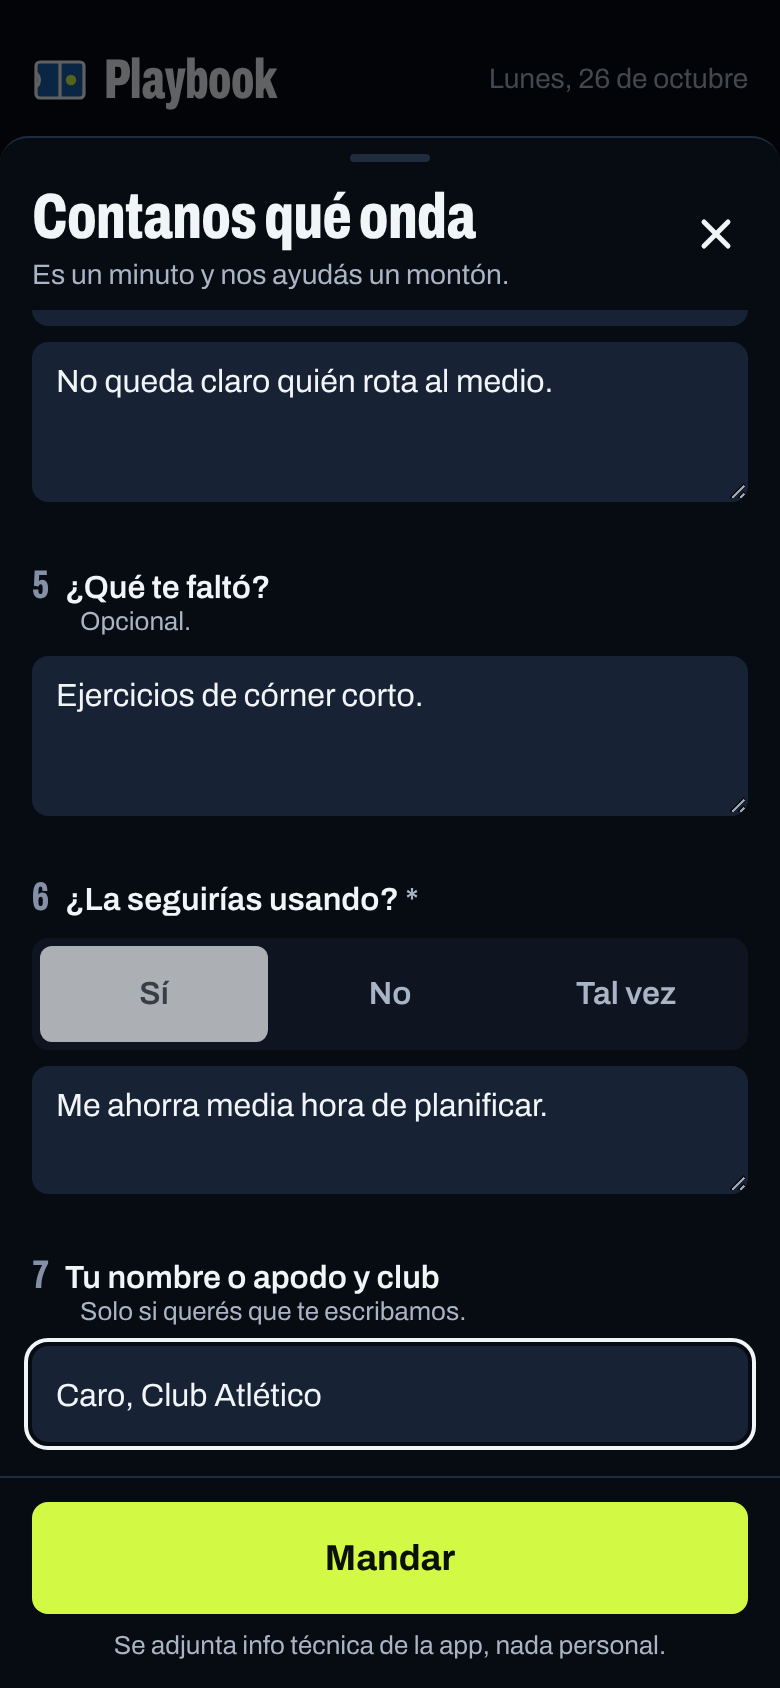
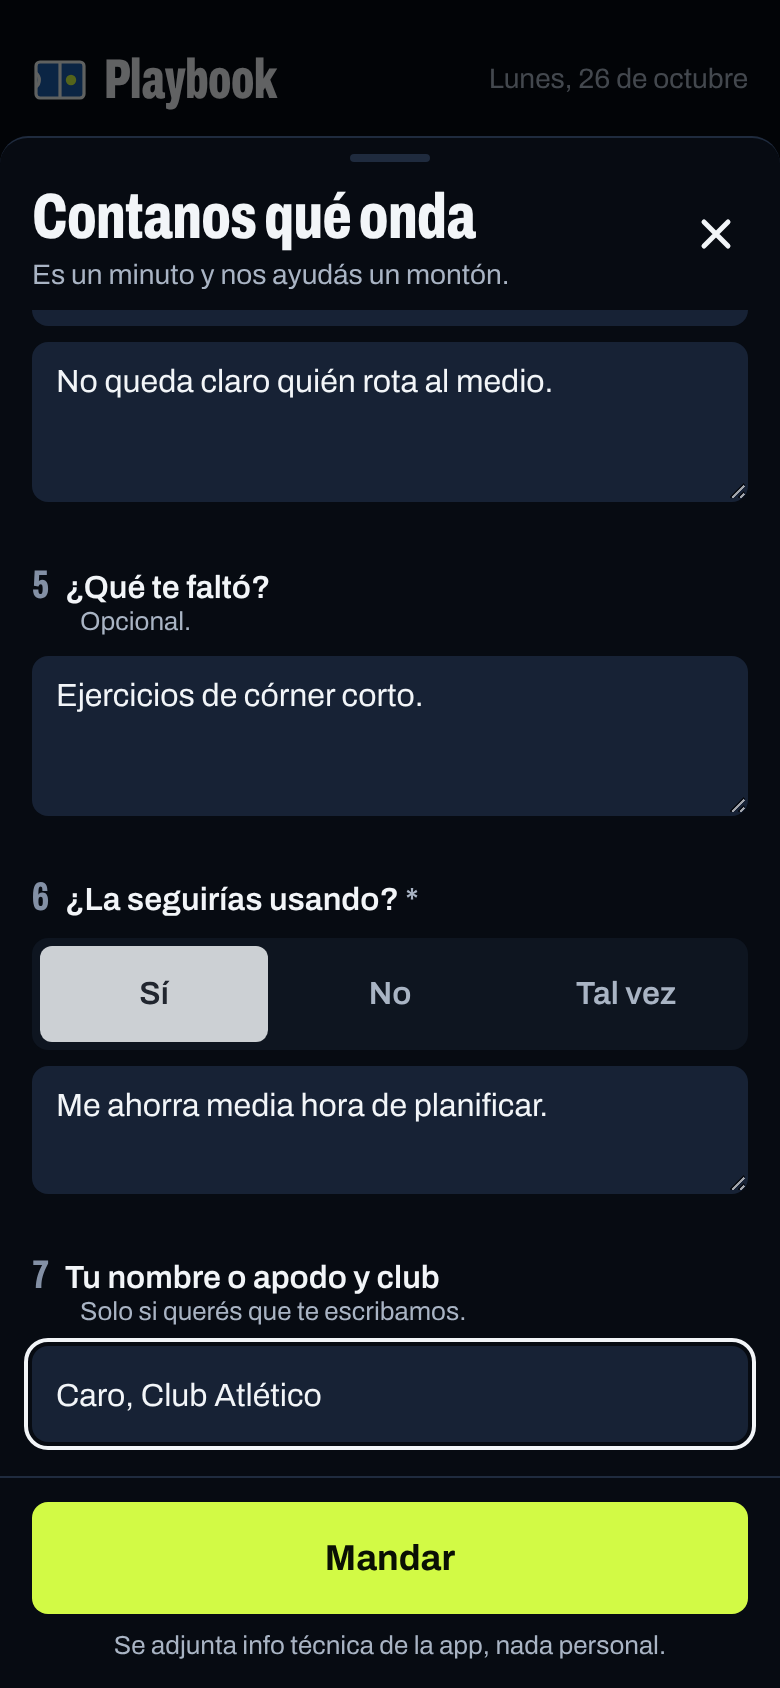
Feedback: formato del Google Form real de la beta
- Casillas: un parámetro por categoría; escala lineal: solo el número
- Campo info con origen, calificación del cierre e info técnica en un texto
- README con las 10 preguntas y los textos exactos de las opciones

Claude-Session: https://claude.ai/code/session_01Hd13ubxvGTXEAgtLTdJiZe

Changed region(s): [[0.0308, 0.5545, 0.3692, 0.6161]]

diff --git a/tests/feedback.test.ts b/tests/feedback.test.ts
@@ -24,6 +24,7 @@ const ENTRIES: Entries = {
   sesiones: "entry.115",
   cancha: "entry.116",
   propios: "entry.117",
+  info: "entry.118",
 };
 const TECNICO: Tecnico = { version: "71542f9", dispositivo: "Android · Chrome 141", pwa: true, sesiones: 7, cancha: 3, propios: 2 };
 const completa = (): Respuesta => ({
@@ -61,9 +62,11 @@ describe("feedback: armado del body", () => {
   it("cada campo va con su entry, recortado, y los vacíos no viajan", () => {
     const r = { ...completa(), falto: "", contacto: "" };
     const cuerpo = armarCuerpo(r, TECNICO, ENTRIES, "Rondo 3 contra 1");
-    expect(cuerpo.get("entry.101")).toBe("Juveniles, Mayores");
+    // Casillas: un parámetro por categoría marcada.
+    expect(cuerpo.getAll("entry.101")).toEqual(["Juveniles", "Mayores"]);
     expect(cuerpo.get("entry.102")).toBe("2–3");
-    expect(cuerpo.get("entry.103")).toBe("4 · Casi tal cual");
+    // Escala lineal: solo el número.
+    expect(cuerpo.get("entry.103")).toBe("4");
     expect(cuerpo.get("entry.104")).toBe("No se entiende quién rota");
     expect(cuerpo.get("entry.105")).toBe("Rondo 3 contra 1 (rondo-3-contra-1)");
     expect(cuerpo.get("entry.107")).toBe("Sí");
@@ -74,6 +77,42 @@ describe("feedback: armado del body", () => {
     expect(cuerpo.has("entry.106")).toBe(false);
     expect(cuerpo.has("entry.109")).toBe(false);
     expect(cuerpo.has("entry.110")).toBe(false);
+  });
+
+  it("info junta origen, calificación del cierre e info técnica en un solo texto", () => {
+    const cuerpo = armarCuerpo({ ...respuestaVacia("cierre"), calificacion: 4 }, TECNICO, ENTRIES);
+    expect(cuerpo.get("entry.118")).toBe("Desde: cierre · Calificación de la sesión: 4/5 · v71542f9 · Android · Chrome 141 · instalada · 7 sesiones · 3 veces en modo cancha · 2 ejercicios propios");
+  });
+
+  it("con el Form de la beta (10 preguntas) cada respuesta cae en su pregunta", () => {
+    const formBeta: Entries = {
+      categorias: "entry.614718372",
+      usos: "entry.1833832473",
+      tal_cual: "entry.488569987",
+      ejercicio_malo: "entry.789987621",
+      ejercicio: "entry.263847174",
+      falto: "entry.478530584",
+      seguiria: "entry.461666061",
+      por_que: "entry.2060276923",
+      contacto: "entry.172308889",
+      info: "entry.420581240",
+    };
+    const cuerpo = armarCuerpo(completa(), TECNICO, formBeta, "Rondo 3 contra 1");
+    expect(cuerpo.toString()).toBe(
+      [
+        "entry.614718372=Juveniles",
+        "entry.614718372=Mayores",
+        "entry.1833832473=2%E2%80%933",
+        "entry.488569987=4",
+        "entry.789987621=No+se+entiende+qui%C3%A9n+rota",
+        "entry.263847174=Rondo+3+contra+1+%28rondo-3-contra-1%29",
+        "entry.478530584=Ejercicios+de+c%C3%B3rner",
+        "entry.461666061=S%C3%AD",
+        "entry.2060276923=Me+ahorra+tiempo",
+        "entry.172308889=Caro%2C+Club+Atl%C3%A9tico",
+        `entry.420581240=${new URLSearchParams({ x: "Desde: inicio · v71542f9 · Android · Chrome 141 · instalada · 7 sesiones · 3 veces en modo cancha · 2 ejercicios propios" }).toString().slice(2)}`,
+      ].join("&"),
+    );
   });
 
   it("un campo sin entry configurado no se manda", () => {
@@ -164,7 +203,7 @@ describe("feedback: sin Google Form", () => {
     const url = (d.abrir as ReturnType<typeof vi.fn>).mock.calls[0][0] as string;
     expect(url.startsWith("https://wa.me/5491155550000?text=")).toBe(true);
     const texto = decodeURIComponent(url.split("text=")[1]);
-    expect(texto).toContain("¿La usaría tal cual?: 4 · Casi tal cual");
+    expect(texto).toContain("¿La usaría tal cual? (1 a 5): 4 · Casi tal cual");
     expect(texto).toContain("Ejercicio flojo: Rondo 3 contra 1 (rondo-3-contra-1)");
     expect(texto).toContain("Info técnica: v71542f9");
     expect(d.fetch).not.toHaveBeenCalled();
@@ -193,5 +232,14 @@ describe("feedback: contadores de uso", () => {
     await sumarContador(base, "cancha");
     await Promise.all([sumarContador(base, "propios"), sumarContador(base, "propios"), sumarContador(base, "propios")]);
     expect(await leerContadores(base)).toEqual({ sesiones: 2, cancha: 1, propios: 3 });
+  });
+});
+
+describe("feedback: textos", () => {
+  it("los contadores van en singular cuando es uno", () => {
+    const uno: Tecnico = { ...TECNICO, sesiones: 1, cancha: 1, propios: 1 };
+    const cuerpo = armarCuerpo(respuestaVacia("inicio"), uno, ENTRIES);
+    expect(cuerpo.get("entry.118")).toContain("1 sesión · 1 vez en modo cancha · 1 ejercicio propio");
+    expect(textoFeedback(respuestaVacia("inicio"), uno)).toContain("1 sesión · 1 vez en modo cancha · 1 ejercicio propio");
   });
 });

diff --git a/src/lib/feedback/modelo.ts b/src/lib/feedback/modelo.ts
@@ -37,7 +37,11 @@ export interface Tecnico {
   propios: number;
 }
 
-/** Los campos que se mandan. Cada uno se mapea a un `entry.XXXX` del Google Form. */
+/**
+ * Los campos que se mandan. Cada uno se mapea a un `entry.XXXX` del Google Form; los que no tienen
+ * entry no viajan. `info` junta en un solo texto el origen, la calificación del cierre y la info
+ * técnica, para un Form con una sola pregunta para eso.
+ */
 export const CAMPOS = [
   "categorias",
   "usos",
@@ -56,6 +60,7 @@ export const CAMPOS = [
   "sesiones",
   "cancha",
   "propios",
+  "info",
 ] as const;
 export type Campo = (typeof CAMPOS)[number];
 export type Entries = Partial<Record<Campo, string>>;
@@ -72,12 +77,15 @@ export function faltantes(r: Respuesta): ("categorias" | "usos" | "tal_cual" | "
   return f;
 }
 
+const cuantos = (n: number, uno: string, varios: string) => `${n} ${n === 1 ? uno : varios}`;
+
 /** Cada campo como texto. Los vacíos quedan vacíos (no se mandan). */
 export function valores(r: Respuesta, t: Tecnico, nombreEjercicio?: string): Record<Campo, string> {
   return {
     categorias: r.categorias.join(", "),
     usos: r.usos ?? "",
-    tal_cual: r.talCual ? `${r.talCual} · ${ESCALA[r.talCual as 1 | 2 | 3 | 4 | 5]}` : "",
+    // Solo el número: es lo que acepta una pregunta de escala lineal (y una de texto también).
+    tal_cual: r.talCual ? String(r.talCual) : "",
     ejercicio_malo: r.ejercicioMalo.trim(),
     ejercicio: r.ejercicioId ? (nombreEjercicio ? `${nombreEjercicio} (${r.ejercicioId})` : r.ejercicioId) : "",
     falto: r.falto.trim(),
@@ -92,6 +100,18 @@ export function valores(r: Respuesta, t: Tecnico, nombreEjercicio?: string): Rec
     sesiones: String(t.sesiones),
     cancha: String(t.cancha),
     propios: String(t.propios),
+    info: [
+      `Desde: ${r.origen}`,
+      r.calificacion ? `Calificación de la sesión: ${r.calificacion}/5` : "",
+      `v${t.version}`,
+      t.dispositivo,
+      t.pwa ? "instalada" : "en el navegador",
+      cuantos(t.sesiones, "sesión", "sesiones"),
+      `${cuantos(t.cancha, "vez", "veces")} en modo cancha`,
+      cuantos(t.propios, "ejercicio propio", "ejercicios propios"),
+    ]
+      .filter(Boolean)
+      .join(" · "),
   };
 }
 
@@ -101,7 +121,10 @@ export function armarCuerpo(r: Respuesta, t: Tecnico, entries: Entries, nombreEj
   const cuerpo = new URLSearchParams();
   for (const campo of CAMPOS) {
     const entry = entries[campo];
-    if (entry && v[campo]) cuerpo.append(entry, v[campo]);
+    if (!entry) continue;
+    // Casillas de verificación: Google espera un parámetro por cada opción marcada.
+    if (campo === "categorias") r.categorias.forEach((c) => cuerpo.append(entry, c));
+    else if (v[campo]) cuerpo.append(entry, v[campo]);
   }
   return cuerpo;
 }
@@ -110,7 +133,7 @@ const RENGLONES: [Campo, string][] = [
   ["calificacion", "Cómo me fue con la sesión (1 a 5)"],
   ["categorias", "Categoría"],
   ["usos", "Veces que la usé en la cancha"],
-  ["tal_cual", "¿La usaría tal cual?"],
+  ["tal_cual", "¿La usaría tal cual? (1 a 5)"],
   ["ejercicio", "Ejercicio flojo"],
   ["ejercicio_malo", "Qué tenía de malo"],
   ["falto", "Qué me faltó"],
@@ -121,10 +144,10 @@ const RENGLONES: [Campo, string][] = [
 
 /** Las respuestas en texto, para mandar por WhatsApp o copiar. */
 export function textoFeedback(r: Respuesta, t: Tecnico, nombreEjercicio?: string): string {
-  const v = valores(r, t, nombreEjercicio);
+  const v = { ...valores(r, t, nombreEjercicio), tal_cual: r.talCual ? `${r.talCual} · ${ESCALA[r.talCual as 1 | 2 | 3 | 4 | 5]}` : "" };
   const lineas = ["Feedback de Playbook (beta)", ""];
   for (const [campo, etiqueta] of RENGLONES) if (v[campo]) lineas.push(`${etiqueta}: ${v[campo]}`);
-  lineas.push("", `Info técnica: v${t.version} · ${t.dispositivo} · ${t.pwa ? "instalada" : "en el navegador"} · ${t.sesiones} sesiones · ${t.cancha} veces en modo cancha · ${t.propios} ejercicios propios`);
+  lineas.push("", `Info técnica: v${t.version} · ${t.dispositivo} · ${t.pwa ? "instalada" : "en el navegador"} · ${cuantos(t.sesiones, "sesión", "sesiones")} · ${cuantos(t.cancha, "vez", "veces")} en modo cancha · ${cuantos(t.propios, "ejercicio propio", "ejercicios propios")}`);
   return lineas.join("\n");
 }
 

diff --git a/README.md b/README.md
@@ -52,31 +52,26 @@ Sin configurar nada, la app anda 100 % en el dispositivo: no hay login y "Compar
 La beta tiene un formulario de feedback (Inicio → "Contanos qué onda", Mi club → "Mandar feedback", el cierre del modo cancha y "Este ejercicio está flojo" en cada ficha). Las respuestas van a un **Google Form**, que las guarda en una Google Sheet: sin backend y sin tarjeta.
 
 1. En [forms.google.com](https://forms.google.com) creá un formulario nuevo, por ejemplo "Playbook · Feedback beta".
-2. Agregá **17 preguntas, todas de tipo "Respuesta corta"** (o "Párrafo" para las de texto largo) y **ninguna obligatoria**: la app ya valida, y la calificación rápida del cierre viaja sola. Los títulos son para vos; sugeridos, en este orden:
+2. Agregá estas **10 preguntas, en este orden y ninguna obligatoria** (la app ya valida, y la calificación rápida del cierre viaja sola: si Google tiene alguna obligatoria, esa respuesta se pierde). En las de opciones, **los textos tienen que ser exactamente estos**: si una opción no coincide, Google descarta la respuesta entera sin avisar.
 
-   | Campo | Título sugerido |
-   |---|---|
-   | `categorias` | Categoría que entrena |
-   | `usos` | Veces que la usó en la cancha |
-   | `tal_cual` | ¿Usaría la sesión tal cual? (1 a 5) |
-   | `ejercicio_malo` | Qué tenía de malo el ejercicio |
-   | `ejercicio` | Ejercicio flojo |
-   | `falto` | Qué le faltó |
-   | `seguiria` | ¿La seguiría usando? |
-   | `por_que` | Por qué |
-   | `contacto` | Nombre y club (opcional) |
-   | `calificacion` | Calificación de la sesión (cierre de cancha) |
-   | `origen` | Desde dónde lo mandó |
-   | `version` | Versión de la app |
-   | `dispositivo` | Dispositivo y navegador |
-   | `pwa` | ¿Instalada? |
-   | `sesiones` | Sesiones generadas |
-   | `cancha` | Veces en modo cancha |
-   | `propios` | Ejercicios propios creados |
+   | Campo | Pregunta | Tipo en Google Forms | Opciones (textuales) |
+   |---|---|---|---|
+   | `categorias` | ¿Qué categoría entrenás? | Casillas de verificación | `Menores`, `Juveniles`, `Mayores`, `Veteranos` |
+   | `usos` | ¿Cuántas veces la usaste en la cancha? | Opción múltiple | `0`, `1`, `2–3` (con guion largo), `4 o más` |
+   | `tal_cual` | ¿La sesión que te armó la usarías tal cual? | Escala lineal 1 a 5 | 1 = Ni loco, 5 = Tal cual |
+   | `ejercicio_malo` | ¿Algún ejercicio te pareció malo o mal explicado? | Párrafo | |
+   | `ejercicio` | ¿Cuál? | Respuesta corta | |
+   | `falto` | ¿Qué te faltó? | Párrafo | |
+   | `seguiria` | ¿La seguirías usando? | Opción múltiple | `Sí`, `No`, `Tal vez` |
+   | `por_que` | ¿Por qué? | Párrafo | |
+   | `contacto` | Tu nombre o apodo y club | Respuesta corta | |
+   | `info` | Info técnica | Párrafo | (la llena la app: desde dónde, calificación del cierre, versión, dispositivo y contadores) |
+
+   Si preferís columnas separadas para la info técnica, en vez de `info` podés crear preguntas de texto para `origen`, `calificacion`, `version`, `dispositivo`, `pwa`, `sesiones`, `cancha` y `propios`.
 
 3. En **Configuración**, apagá "Recopilar direcciones de correo electrónico" y "Restringir a usuarios de…": tiene que poder responder cualquiera sin iniciar sesión.
 4. En **Respuestas**, tocá "Vincular con Hojas de cálculo" para que todo caiga en una Sheet.
-5. Sacá los `entry.XXXX`: menú de los tres puntos → **"Obtener vínculo prellenado"**. En cada pregunta escribí **el nombre del campo** de la tabla (`categorias`, `usos`, `tal_cual`…), tocá "Obtener vínculo" y "Copiar vínculo".
+5. Sacá los `entry.XXXX`: menú de los tres puntos → **"Obtener vínculo prellenado"**. En cada pregunta de texto escribí **el nombre del campo** de la tabla (`ejercicio_malo`, `falto`, `info`…), marcá cualquier opción en las otras, tocá "Obtener vínculo" y "Copiar vínculo". (El script reconoce las de texto por el nombre; las de opciones, como `entry.123=Mayores`, se completan a mano en el JSON siguiendo el orden de la tabla.)
 6. Convertí ese link en las dos variables:
 
    ```bash

diff --git a/DECISIONES.md b/DECISIONES.md
@@ -62,3 +62,4 @@ Formato: **qué** · por qué · alternativa descartada.
 52. **Vercel Web Analytics solo se monta en builds de Vercel** (`VERCEL=1` al compilar). Fuera de Vercel el script daría 404 y ensuciaría la consola; `track()` sin script no hace nada. Los eventos no llevan datos personales: `sesion_generada` lleva jugadores, nivel e intensidad; `feedback_enviado`, solo por qué vía salió.
 53. **`.npmrc` con `legacy-peer-deps=true`:** `@vercel/analytics` declara peers opcionales de otros frameworks (SvelteKit) que chocan con la versión de Vite de Vitest. Playbook no usa ninguno. · Descartado: subir Vitest de versión mayor solo por esto.
 54. **La versión de la app es el hash corto del commit** (`VERCEL_GIT_COMMIT_SHA` en Vercel, `git rev-parse` en local, "dev" si no hay git), inyectado al compilar como `NEXT_PUBLIC_APP_VERSION`.
+55. **El Form real de la beta usa preguntas de opciones** (casillas para la categoría, opción múltiple para usos y "¿la seguirías usando?", escala lineal para "tal cual"). Esto actualiza la 48: las categorías viajan como un parámetro por opción marcada y la escala con el número solo. Las 10 preguntas incluyen una de texto, `info`, que junta origen, calificación del cierre e info técnica. Los textos de las opciones tienen que coincidir exactos con los de la app (si no, Google descarta la respuesta sin avisar): quedaron listados en el README. El orden de las preguntas de texto (`ejercicio_malo`, `ejercicio`, `falto`, `por_que`, `contacto`, `info`) se dedujo del vínculo prellenado; si en la Sheet algo cae en otra columna, se corrige en `NEXT_PUBLIC_FEEDBACK_ENTRIES`.
